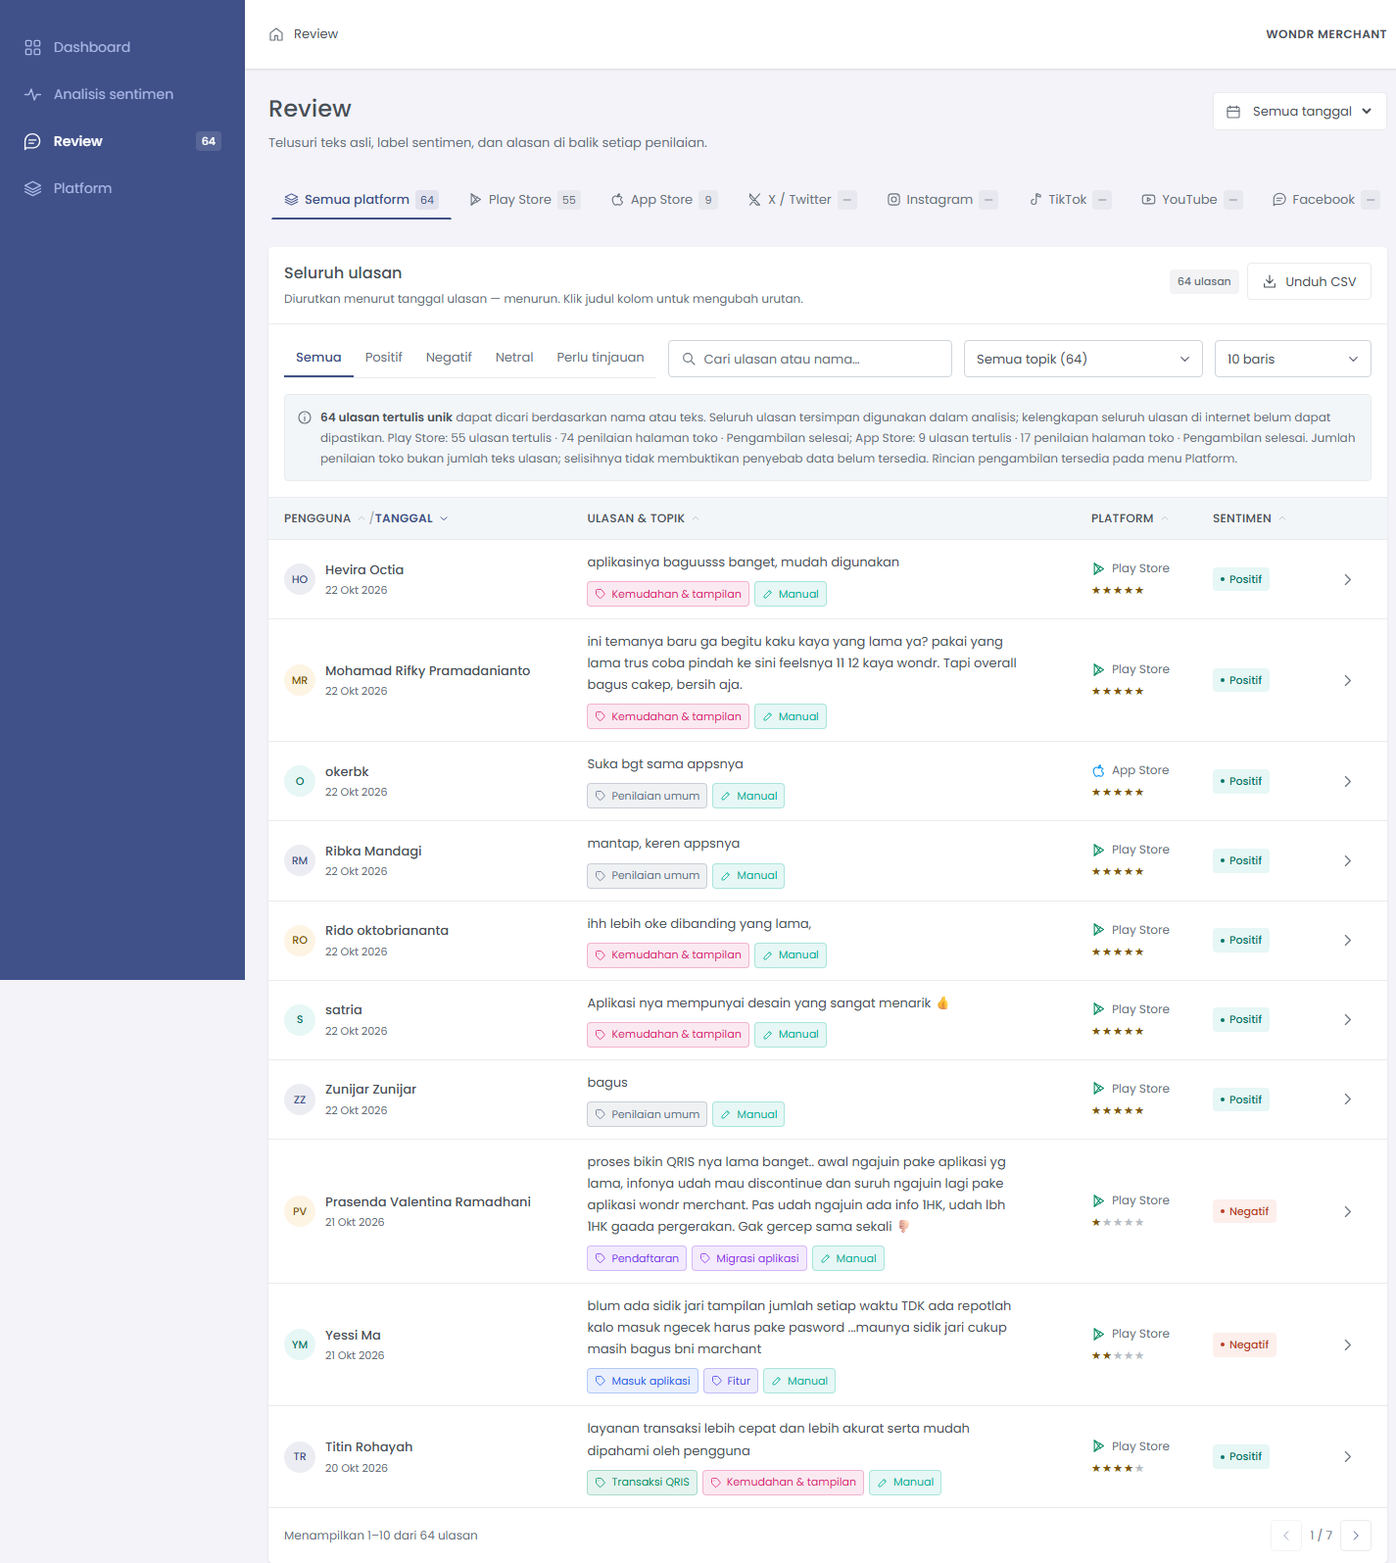
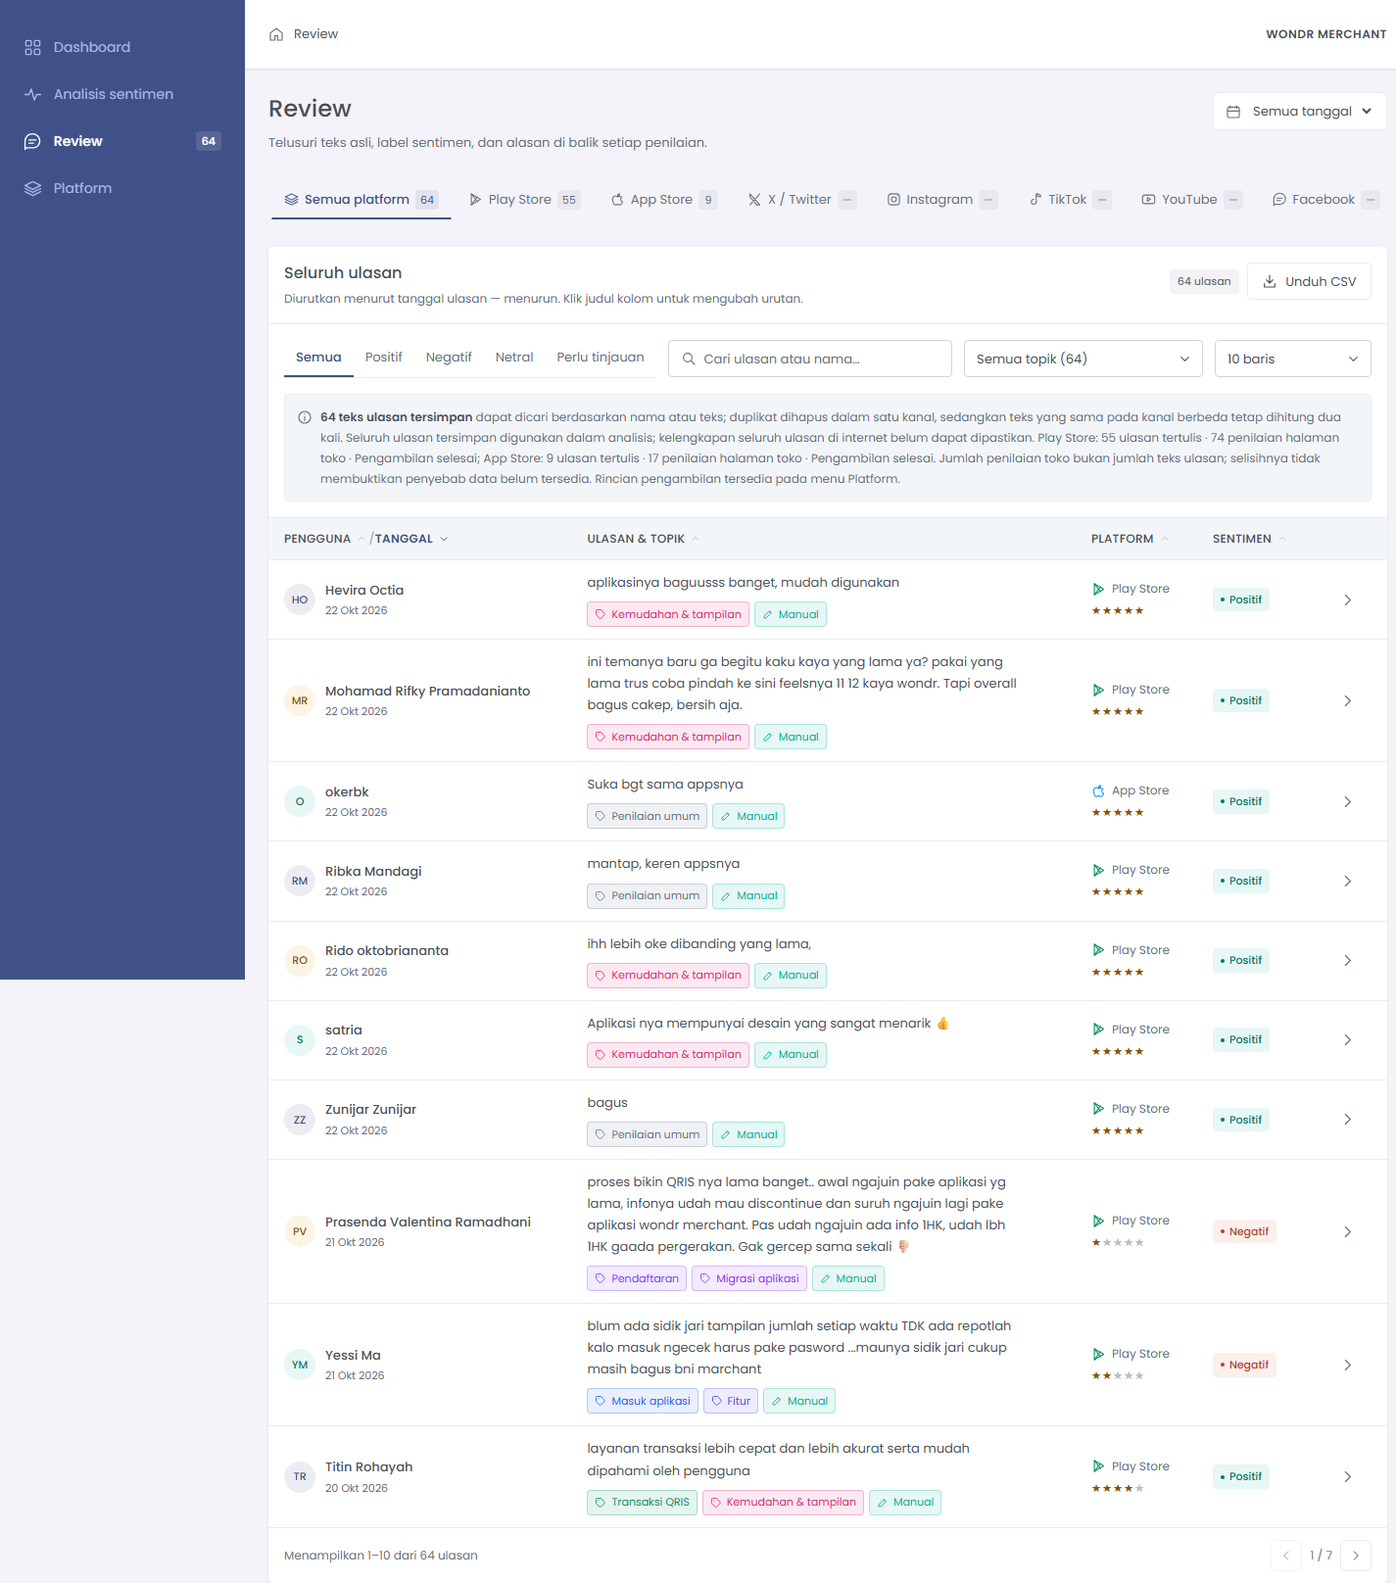
fix: terapkan hasil tinjauan pakar pada classifier, jalur pengambilan, dan kejujuran status
Dua tinjauan modul menemukan cacat nyata yang kini diperbaiki dan diuji:
negasi tak baku dan keluhan sesudah klausa penyelesaian membuat label
salah arah, tautan dataset pihak ketiga bisa membawa token Apify keluar
host, server lokal membayar ulang run yang belum selesai, dan hasil
partial tampil sebagai "selesai". Catatan cakupan tidak lagi mengklaim
keunikan lintas kanal.

diff --git a/model.js b/model.js
@@ -203,37 +203,59 @@ const topicRules = {
   migration: /migrasi|beralih|aplikasi lama|aplikasi sebelumnya|discontinue/,
   benefit: /membantu|mempermudah|usaha/,
 };
+// Satu daftar kata negasi dipakai bersama semua aturan agar frasa seperti "tak bisa masuk"
+// tidak pernah terbaca sebagai keberhasilan.
+const negation = 'tidak|belum|blum|blm|ga|gak|nggak|ngga|kagak|enggak|tak|tdk';
 // Klausa harapan ("semoga ...", "mudah-mudahan ...") adalah harapan akan perbaikan, bukan
 // keluhan yang sedang terjadi, jadi klausanya sendiri tidak dihitung sebagai negatif.
-const hopeClause = /(?:semoga|smoga|moga[\s-]?2?|mudah[\s-]?2?an|harapannya|insya\s?allah|insyallah|aminn?)\b[^,.!?]*/g;
+const hopeClause = new RegExp(`(?:semoga|smoga|moga[\\s-]?2?|mudah[\\s-]?2?an|harapannya|insya\\s?allah|insyallah|aminn?)\\b[^,.!?]*`,'g');
 // Kegagalan yang sudah selesai ("... akhirnya bisa masuk") adalah riwayat, bukan keluhan aktif.
 // Jeda antar-frasa tidak boleh memuat negasi, supaya "sekarang belum bisa" tetap keluhan.
-const notNegated = /(?:(?!\b(?:tidak|belum|blum|ga|gak|nggak|ngga|tdk)\b)[^.!?]){0,60}/;
+const notNegated = new RegExp(`(?:(?!\\b(?:${negation})\\b)[^.!?]){0,60}`);
 const resolvedHead = `\\b(?:akhirnya|alhamdulillah|alhamdullilah|sekarang|kini)${notNegated.source}\\b(?:bisa|masuk|lancar|berhasil|normal|jalan|oke|enak|bagus)\\b`;
-const resolvedClause = new RegExp(`${resolvedHead}[^.!?]*`, 'g');
-const successMarker = new RegExp(`${resolvedHead}|(?<!\\b(?:tidak|belum|blum|ga|gak|nggak|ngga|tdk)\\s)(?:bisa masuk|sudah bisa|dapat masuk)\\b`);
-const negatedAbility = /\b(?:tidak|belum|blum|ga|gak|nggak|ngga|tdk)\s+(?:bisa\s+bisa|bisa|masuk|acc|selesai)\b/g;
+const resolvedClause = new RegExp(`${resolvedHead}[^,.!?]*`,'g');
+const successMarker = new RegExp(`${resolvedHead}|(?<!\\b(?:${negation})\\s)(?:bisa masuk|sudah bisa|dapat masuk)\\b`);
+const negatedAbility = new RegExp(`\\b(?:${negation})\\s+(?:bisa\\s+bisa|bisa|masuk|acc|selesai)\\b`,'g');
+const reassurancePhrase = new RegExp(`\\b(?:(?:${negation}) ada|${negation}|tanpa) (?:masalah|kendala|hambatan|problem)\\b`,'g');
+// "dana settlement belum masuk" tetap keluhan meskipun kata bendanya dipisah beberapa kata.
+const missingAsset = new RegExp(`\\b(?:dana|uang|settlement|transaksi|laporan|notifikasi|notif)\\b[^.!?]{0,25}?\\b(?:${negation})\\s+masuk\\b`);
+const negativeRule = new RegExp(`gagal|lambat|lemot|ribet|repot|jelek|cacat|rusak|lelet|sia-sia|mubazir|menyesal|kecewa|buruk|payah|gangguan|ga ngguan|error|crash|loading lama|lama banget|lama bgt|tidak bagus|kurang (?:cepat|bagus)|\\b(?:${negation})\\s+(?:bisa|ada|update|acc|selesai)\\b|(?:notifikasi|notif|settlement).{0,20}(?:hilang|telat)|${missingAsset.source}|tidak menyelesaikan|bankke`);
+const positiveRule = /bagus|mantap|mantp|keren|kereen|membantu|mempermudah|memudahkan|mudah digunakan|lancar|memuaskan|akurat|rekomendasi|nice app|good|love|lengkap|lebih cepat|tanpa (?:kendala|masalah)|tidak ada (?:kendala|masalah)|^ok(?:e)?[.! ]*$/;
 export function classifyText(text) {
   const value = text.toLocaleLowerCase('id').replace(/\s+/g,' ');
   const reviewTags = Object.entries(topicRules).filter(([,rule]) => rule.test(value)).map(([tag]) => tag);
   const resolved = successMarker.test(value);
-  const scope = value.replace(/\btidak ada (?:masalah|kendala)\b/g,'').replace(hopeClause,' ');
-  const negativeScope = resolved ? scope.replace(resolvedClause,' ').replace(negatedAbility,' ') : scope;
-  const negative = /gagal|lambat|lemot|ribet|repot|kecewa|buruk|payah|gangguan|ga ngguan|error|crash|loading lama|lama banget|lama bgt|tidak bagus|kurang (?:cepat|bagus)|(?:tidak|belum|blum|ga|gak|nggak|tdk) (?:bisa|ada|update|acc|selesai)|(?:notifikasi|notif|settlement).{0,20}(?:hilang|telat)|(?:notif|notifikasi|transaksi|dana|uang|laporan)\s+(?:tidak|ga|gak|belum|blum|tdk)\s+masuk|tidak menyelesaikan|bankke/.test(negativeScope);
-  const positive = /bagus|mantap|mantp|keren|kereen|membantu|mempermudah|memudahkan|mudah digunakan|lancar|memuaskan|akurat|rekomendasi|nice app|good|love|lengkap|lebih cepat|tanpa (?:kendala|masalah)|tidak ada (?:kendala|masalah)|^ok(?:e)?[.! ]*$/.test(value) || (resolved && !negative);
+  const hopeful = value.replace(hopeClause,' ');
+  // Keluhan sebelum kegagalan terselesaikan dihitung sebagai riwayat; teks sesudahnya
+  // (misalnya "tapi dana belum masuk") tetap dinilai sebagai keluhan aktif.
+  const headAt = resolved ? hopeful.search(new RegExp(resolvedHead)) : -1;
+  const negativeScope = resolved && headAt !== -1
+    ? `${hopeful.slice(0,headAt).replace(negatedAbility,' ')} ${hopeful.slice(headAt).replace(resolvedClause,' ')}`
+    : hopeful.replace(reassurancePhrase,' ');
+  const negative = negativeRule.test(negativeScope);
+  const positive = positiveRule.test(hopeful) || (resolved && !negative);
   const neutral = /^(?:[1-5] bintang dulu|terima kasih atas informasinya)[.! ]*$/.test(value);
   const sentiment = negative ? 'negative' : positive ? 'positive' : neutral ? 'neutral' : 'unclassified';
-  return { sentiment, tags: reviewTags.length ? reviewTags : ['general'], labeling: 'rules-v1', rationale: sentiment === 'unclassified' ? 'Pola teks belum cukup untuk menentukan sentimen. Tidak dihitung sebagai netral; perlu ditinjau secara manual.' : `Klasifikasi otomatis berbasis aturan kata kunci pada teks (${sentimentNames[sentiment].toLowerCase()}), bukan penilaian bintang. Klausa harapan dan kegagalan yang sudah selesai ("akhirnya bisa masuk") tidak dihitung sebagai keluhan aktif. Belum diperiksa manusia; negasi, sarkasme, dan ulasan dengan beberapa aspek dapat dinilai keliru.` };
+  return { sentiment, tags: reviewTags.length ? reviewTags : ['general'], labeling: 'rules-v1', rationale: sentiment === 'unclassified' ? 'Pola teks belum cukup untuk menentukan sentimen. Tidak dihitung sebagai netral; perlu ditinjau secara manual.' : `Klasifikasi otomatis berbasis aturan kata kunci pada teks (${sentimentNames[sentiment].toLowerCase()}), bukan penilaian bintang. Klausa harapan dan kegagalan yang sudah selesai ("akhirnya bisa masuk") tidak dihitung sebagai keluhan aktif, tetapi teks sesudah klausa itu tetap dinilai. Belum diperiksa manusia; negasi, sarkasme, dan ulasan dengan beberapa aspek dapat dinilai keliru.` };
 }
 export function classifyReview(raw) {
   const label = classifyText(raw.text);
-  if (raw.platform === 'play' || raw.platform === 'appstore') return label;
   const text = raw.text.toLocaleLowerCase('id');
   const merchant = /\bwondr\s+merchant\b|\bid\.bni\.wfb(?![\w.])/.test(text);
+  const consumer = /\bwondr\s+by\s+bni\b|mobile banking|bni mobile|m[- ]?banking/.test(text);
+  // Keluhan yang jelas ditujukan ke aplikasi lain bukan pengalaman produk ini.
+  const otherApp = /\b(?:aplikasi|qris|mesin)\s+(?:bank\s+)?lain\b|aplikasi\s+sebelah|bukan\s+wondr/.test(text);
   // Akun resmi pemilik produk mengiklankan aplikasinya sendiri. Teks seperti itu
   // disimpan sebagai konteks, tetapi tidak dihitung sebagai sentimen pelanggan.
   const handle = String(raw.author ?? '').replace(/^@+/, '').trim().toLowerCase();
-  const officialAccount = /^(?:bni(?:[\W_]*46)?|official[\W_]*bni|wondr[\W_]*merchant)$/.test(handle);
+  const officialAccount = /^(?:bni(?:[\W_]*46)?|official[\W_]*bni(?:[\W_]*46)?|bni[\W_]*official(?:[\W_]*46)?|wondr[\W_]*merchant(?:[\W_]*by[\W_]*bni)?)$/.test(handle);
+  if (raw.platform === 'play' || raw.platform === 'appstore') {
+    // Ulasan toko dinilai langsung dari teksnya. Teks yang hanya menyebut aplikasi konsumen
+    // BNI tidak boleh dihitung sebagai pengalaman merchant.
+    if (!consumer || merchant) return label;
+    const reason = 'Teks ulasan toko menyebut aplikasi konsumen BNI, bukan wondr merchant; perlu diperiksa manusia sebelum dihitung sebagai pengalaman merchant.';
+    return { ...label, sentiment:'unclassified', tags:['general'], relevance:{ status:'uncertain', reason, method:'merchant-context-v1' }, rationale:`${reason} Tetap tersimpan dan dihitung dalam total teks, tetapi tidak dalam persentase sentimen atau NSS.` };
+  }
   const promotion = /(?:^|[.!?:]|\b(?:ayo|yuk|buruan|segera)\b)\s*(?:download|unduh|install)\b|\bdapatkan\s+(?:cashback|bonus|promo)\b|\binfo\s+promo\b/.test(text);
   const question = /\b(?:apakah|kalau|jika|seandainya|bisakah)\b|\bbelum\s+(?:pernah\s+)?(?:mencoba|coba|pakai|menggunakan)\b/.test(text);
   let status = 'uncertain', reason = 'Komentar pada video terkait belum cukup untuk memastikan pengalaman terhadap aplikasi merchant.';
@@ -243,8 +265,10 @@ export function classifyReview(raw) {
     status = 'excluded'; reason = 'Balasan pemilik video disimpan sebagai konteks, bukan opini pelanggan independen.';
   } else if (promotion) {
     status = 'excluded'; reason = 'Ajakan promosi tidak diperlakukan sebagai pengalaman pelanggan.';
-  } else if (/\bwondr\s+by\s+bni\b|mobile banking|bni mobile/.test(text)) {
+  } else if (consumer) {
     status = 'excluded'; reason = merchant ? 'Teks juga membahas produk konsumen. Target sentimen belum dipisahkan, sehingga teks tidak dinilai otomatis sebagai pengalaman wondr merchant.' : 'Teks menyebut produk konsumen, bukan wondr merchant.';
+  } else if (otherApp) {
+    reason = 'Teks mengarah ke aplikasi atau perangkat milik pihak lain, bukan pengalaman menggunakan wondr merchant.';
   } else if (question) {
     reason = 'Pertanyaan, kondisi hipotetis, atau pernyataan belum mencoba belum cukup untuk menetapkan pengalaman pelanggan; perlu tinjauan konteks.';
   } else if (merchant || (raw.platform === 'youtube' && raw.context?.product === 'wondr-merchant' && /\bqris\b|settlement|pencairan|merchant|toko|usaha/.test(text) && label.tags.some(tag => tag !== 'general'))) {

diff --git a/app.js b/app.js
@@ -315,7 +315,7 @@ function dataScopeNote() {
     const ratings=numericCount(listing?.ratingCount) ?? numericCount(source.ratingCount) ?? numericCount(p.ratingCount);
     return `${esc(p.short)}: ${integer(stored)} ulasan tertulis${ratings!==null?` · ${integer(ratings)} penilaian halaman toko`:''} · ${esc(sourceStatusNames[source.status] || 'Status belum tersedia')}`;
   });
-  return `<p class="note-inline scope-note">${icon('info')}<span><strong>${integer(reviews.length)} ulasan tertulis unik</strong> dapat dicari berdasarkan nama atau teks. Seluruh ulasan tersimpan digunakan dalam analisis; kelengkapan seluruh ulasan di internet belum dapat dipastikan. ${rows.join('; ')}. Jumlah penilaian toko bukan jumlah teks ulasan; selisihnya tidak membuktikan penyebab data belum tersedia. Rincian pengambilan tersedia pada menu Platform.</span></p>`;
+  return `<p class="note-inline scope-note">${icon('info')}<span><strong>${integer(reviews.length)} teks ulasan tersimpan</strong> dapat dicari berdasarkan nama atau teks; duplikat dihapus dalam satu kanal, sedangkan teks yang sama pada kanal berbeda tetap dihitung dua kali. Seluruh ulasan tersimpan digunakan dalam analisis; kelengkapan seluruh ulasan di internet belum dapat dipastikan. ${rows.join('; ')}. Jumlah penilaian toko bukan jumlah teks ulasan; selisihnya tidak membuktikan penyebab data belum tersedia. Rincian pengambilan tersedia pada menu Platform.</span></p>`;
 }
 function topicChip(tag, clickable) {
   const label = tags[tag] || tag;
@@ -539,9 +539,9 @@ async function loadData() {
     sync.loading=false; sync.requesting=false; render(); scheduleRefresh();
   }
 }
-const pullStatusNames = { menunggu:'Menunggu giliran', diproses:'Sedang diambil…', selesai:'Selesai diperiksa', gagal:'Gagal', 'belum dikonfigurasi':'Perlu konfigurasi API', 'belum diuji':'Akses belum diuji', 'tidak diambil':'Tidak diambil', 'data tersimpan':'Data tersimpan' };
-const pullFinalStates = new Set(['selesai','gagal','belum dikonfigurasi','belum diuji','tidak diambil','data tersimpan']);
-const pullStateFor = source => ({ success:'selesai', partial:'selesai', error:'gagal', needs_setup:'belum dikonfigurasi', ready:'belum diuji', unsupported:'tidak diambil', snapshot:'data tersimpan' })[source?.status] || 'gagal';
+const pullStatusNames = { menunggu:'Menunggu giliran', diproses:'Sedang diambil…', selesai:'Selesai diperiksa', sebagian:'Selesai sebagian', gagal:'Gagal', 'belum dikonfigurasi':'Perlu konfigurasi API', 'belum diuji':'Akses belum diuji', 'tidak diambil':'Tidak diambil', 'data tersimpan':'Data tersimpan' };
+const pullFinalStates = new Set(['selesai','sebagian','gagal','belum dikonfigurasi','belum diuji','tidak diambil','data tersimpan']);
+const pullStateFor = source => ({ success:'selesai', partial:'sebagian', error:'gagal', needs_setup:'belum dikonfigurasi', ready:'belum diuji', unsupported:'tidak diambil', snapshot:'data tersimpan' })[source?.status] || 'gagal';
 // Baris metadata diisi dari cakupan yang benar-benar dilaporkan sumber, bukan teks tetap,
 // sehingga angka bahasa/actor/batas hasil pada modal dapat ditelusuri ke hasil pengambilan.
 function pullMeta(source) {
@@ -587,11 +587,17 @@ function renderPullDialog() {
   dialog.innerHTML = `<div class="dialog-header"><div><h2 id="pull-heading">Mengambil dan menganalisis</h2><p>Kanal diambil satu per satu. Status di bawah adalah hasil nyata dari kanal tersebut, bukan perkiraan.</p></div><button class="icon-button" data-close="pull-dialog" aria-label="Tutup progres">${icon('close')}</button></div><div class="dialog-body"><div class="pull-progress"><span>Platform</span><strong>${checked} dari ${queue.length} kanal diperiksa${finished?'; riwayat diperbarui':''}</strong></div><ol class="pull-list" aria-live="polite">${queue.map(row => `<li class="pull-row is-${row.status}"><span class="pull-dot" aria-hidden="true"></span>${card(row)}</li>`).join('')}</ol></div><div class="dialog-footer"><small>Kanal yang menjawab tanpa hasil berarti terhubung tetapi tidak mengirim konten; itu bukan nol keluhan.</small></div>`;
   if (!dialog.open) dialog.showModal();
 }
+// Pesan singkat tetap memuat keterangan pemotongan: kalimat pertama saja akan membuat hasil
+// terpotong terbaca seperti pengambilan yang lengkap.
+const truncationMark = /\b(?:belum lengkap|terpotong|terbatas|time_budget|page_limit|run_limit|dibatasi)\b/i;
 function shortMessage(message) {
   const text = String(message || '').trim();
   if (!text) return '';
-  const first = text.split(/(?<=[.!?])\s/)[0] || text;
-  return first.length > 150 ? `${first.slice(0, 147)}…` : first;
+  const sentences = text.split(/(?<=[.!?])\s/).filter(Boolean);
+  const clip = (value, limit) => value.length > limit ? `${value.slice(0, limit - 1)}…` : value;
+  const lead = clip(sentences[0] || text, 150);
+  const caveat = sentences.slice(1).find(sentence => truncationMark.test(sentence));
+  return caveat ? `${lead} ${clip(caveat, 130)}` : lead;
 }
 async function analyze() {
   if (isBusy() || sync.requesting) return;

diff --git a/styles.css b/styles.css
@@ -3080,6 +3080,11 @@ tbody tr:hover {
   color: var(--success-text);
 }
 
+.pull-chip.is-sebagian {
+  background: var(--warning-soft);
+  color: var(--warning-text);
+}
+
 .pull-chip.is-gagal {
   background: var(--danger-soft);
   color: var(--danger-text);
@@ -3157,6 +3162,10 @@ tbody tr:hover {
 
 .pull-row.is-selesai .pull-dot {
   background: var(--success);
+}
+
+.pull-row.is-sebagian .pull-dot {
+  background: var(--warning);
 }
 
 .pull-row.is-gagal .pull-dot {

diff --git a/LAPORAN-ANALISIS-SENTIMEN-WONDR-MERCHANT.md b/LAPORAN-ANALISIS-SENTIMEN-WONDR-MERCHANT.md
@@ -562,13 +562,15 @@ Laporan ini tidak menyimpulkan adanya gangguan sistem. Kesimpulan tersebut memer
 1. **Sumber.** Halaman publik Google Play (`id.bni.wfb`) dan halaman ulasan publik App Store Indonesia (`6741567238`). Tidak ada upaya melewati proses masuk atau perlindungan akses.
 2. **Pengambilan.** Google Play dibaca pada dua kumpulan ulasan (bahasa antarmuka Indonesia dan Inggris) dengan urutan terbaru sampai halaman terakhir, kemudian digabung berdasarkan ID ulasan. App Store dibaca dari halaman ulasan publik dan ditandai bila masih ada halaman lanjutan. Rentang unduhan Google Play dibaca dari blok metrik halaman toko; Apple tidak mempublikasikan jumlah unduhan sehingga dicatat tidak tersedia, bukan nol.
 3. **Kelengkapan.** Seluruh ulasan tertulis yang tersedia pada kedua kanal dimuat; tidak ada pembatasan jumlah atau pengambilan sampel. Jumlah ulasan dilaporkan terpisah dari jumlah penilaian halaman toko.
-4. **Pelabelan sentimen.** Ditentukan dari teks, bukan dari penilaian bintang. Label pada seluruh data akhir ditentukan secara manual. Aturan kata kunci versi 1 dipakai untuk ulasan baru dan menandai teks yang belum pasti sebagai perlu tinjauan; lima ulasan yang tiba setelah penarikan awal ditandai demikian lalu diperiksa manual.
+4. **Pelabelan sentimen.** Ditentukan dari teks, bukan dari penilaian bintang. Label pada seluruh data akhir ditentukan secara manual. Aturan kata kunci versi 1 dipakai untuk ulasan baru dan menandai teks yang belum pasti sebagai perlu tinjauan; lima ulasan yang tiba setelah penarikan awal ditandai demikian lalu diperiksa manual. Tinjauan pakar atas modul sentimen (24 Oktober 2026) menemukan empat celah pada aturan kata kunci yang telah diperbaiki: negasi tak baku (`tak`, `kagak`, `enggak`, `blm`) sebelumnya terbaca sebagai keberhasilan; klausa penyelesaian yang dipotong sampai titik membuat keluhan sesudahnya ("akhirnya bisa masuk, tapi dana settlement belum masuk") ikut dilunakkan; harapan saja ("semoga lancar terus") sebelumnya dihitung sebagai pujian; dan keluhan terhadap aplikasi konsumen BNI pada ulasan toko dihitung sebagai pengalaman merchant. Kosakata keluhan umum (`jelek`, `rusak`, `lelet`, `menyesal`, `sia-sia`) ditambahkan. Dataset awal 64 ulasan seluruhnya berlabel manual sehingga tidak satu pun angka laporan ini berubah karena perbaikan tersebut; perbaikan berlaku pada ulasan yang tiba dari penarikan berikutnya.
 5. **Perhitungan.** `NSS = (positif − negatif) ÷ jumlah ulasan berlabel × 100`. Ulasan yang perlu tinjauan tidak dihitung sebagai netral dan tidak masuk penyebut. Persentase tema dihitung dari jumlah ulasan negatif atau positif pada filter terpilih.
 6. **Pencegahan duplikasi.** Berdasarkan platform dan ID ulasan, dengan pencocokan tambahan berdasarkan nama pengguna, tanggal, dan teks.
 7. **Riwayat.** Perubahan pada ulasan disimpan sebagai versi sebelumnya; versi lama tidak dihitung sebagai ulasan baru.
 8. **Kategori.** Dua belas kategori topik; satu ulasan dapat masuk lebih dari satu kategori.
 9. **Grafik keluhan.** Kartu "Area yang paling sering dikeluhkan" memakai tata letak yang sama dengan kartu "Topik yang dibahas": satu baris label, satu batang bertumpuk komposisi sentimen, satu legenda. Urutan baris tetap menurut jumlah ulasan negatif; segmen batang menunjukkan proporsi sentimen seluruh ulasan yang membahas area tersebut sehingga pujian dan keluhan pada area yang sama terlihat bersamaan. Jumlah segmen tidak dijumlahkan menjadi total ulasan negatif karena satu ulasan dapat membahas beberapa area.
 10. **Proyeksi.** Kartu "Proyeksi 4 pekan ke depan" dihitung dengan aturan statistik deterministik di perangkat ini — bukan model bahasa yang menghasilkan teks. Tanggal publikasi ulasan dikelompokkan per pekan Senin–Minggu UTC, lalu jumlah ulasan positif dan negatif tiap pekan dicocokkan dengan regresi kuadrat terkecil. Arah hanya dinyatakan bila kemiringan dapat dibedakan dari kebisingan (|t| ≥ 2); bila tidak, laju mingguan diambil dari rata-rata empat pekan terakhir dan garis tren tidak diekstrapolasi. Volume harapan horizon berikutnya adalah laju mingguan dikali empat dengan rentang sebaran Poisson 95% (λ ± 1,96√λ); rentang NSS dihitung dari sudut terburuk dan terbaik kombinasi kedua rentang. Proyeksi tidak dibuat bila pekan bertanggal kurang dari empat atau ulasan berlabel kurang dari empat — dasbor menampilkan alasannya, bukan angka dugaan. Yang diproyeksikan adalah kecepatan ulasan publik masuk, bukan jumlah pengguna, transaksi, atau insiden.
+
+11. **Pengaman jalur pengambilan.** Hasil tinjauan pakar integritas data (24 Oktober 2026) diterapkan pada empat titik. (a) Tautan dataset komentar dari keluaran actor pihak ketiga hanya dibaca bila URL-nya HTTPS dan benar-benar berada di host `apify.com`; tautan lain dicatat sebagai gagal sehingga token tidak pernah dikirim ke host asing. (b) Server lokal kini meneruskan peta lanjutan (`resume`) yang sama dengan fungsi Vercel, sehingga run actor yang belum selesai dilanjutkan pada penarikan berikutnya, bukan dibayar ulang dari nol. (c) Kanal yang mengembalikan status `partial` ditampilkan sebagai "Selesai sebagian" dengan warna sendiri pada modal progres, dan kalimat keterangan pemotongan tidak lagi dipangkas bersama sisa pesan. (d) Catatan cakupan tidak lagi menyebut "ulasan tertulis unik" tanpa batas: penghapusan duplikat bekerja di dalam satu kanal, sehingga teks yang sama pada kanal berbeda dihitung dua kali dan hal itu dinyatakan terbuka.
 
 ## Lampiran B — Sumber Data
 
